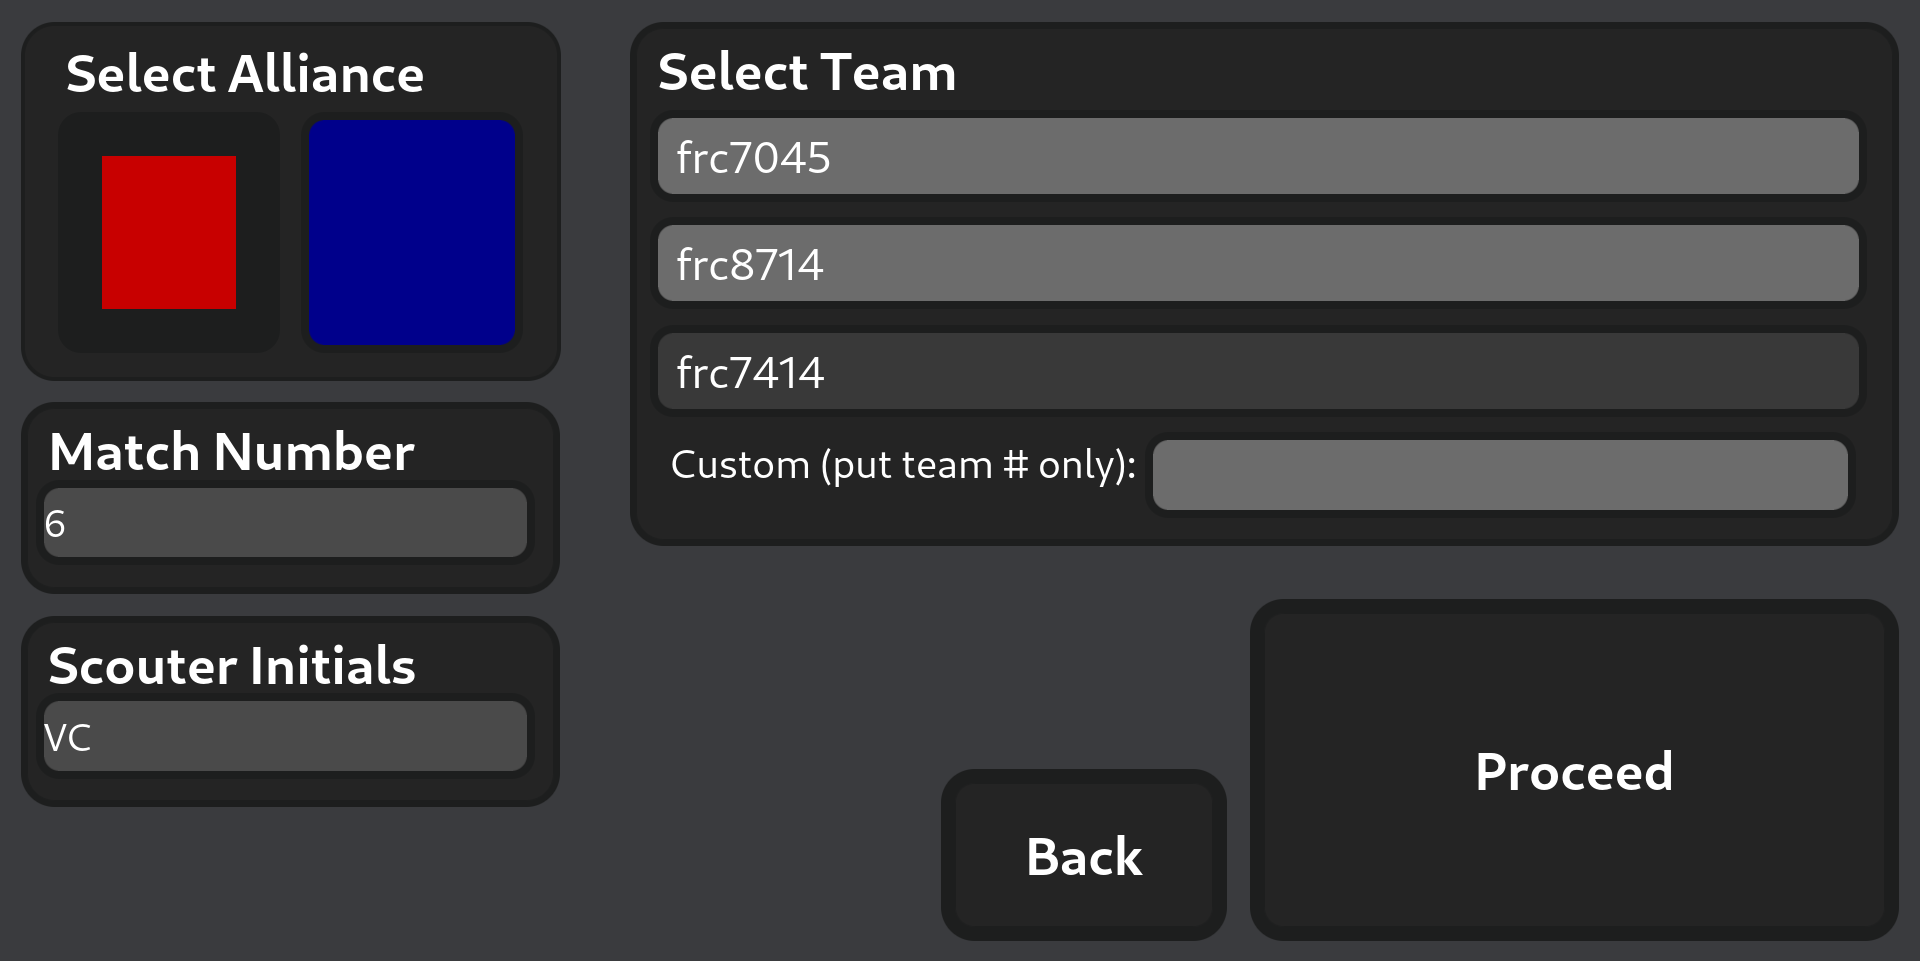
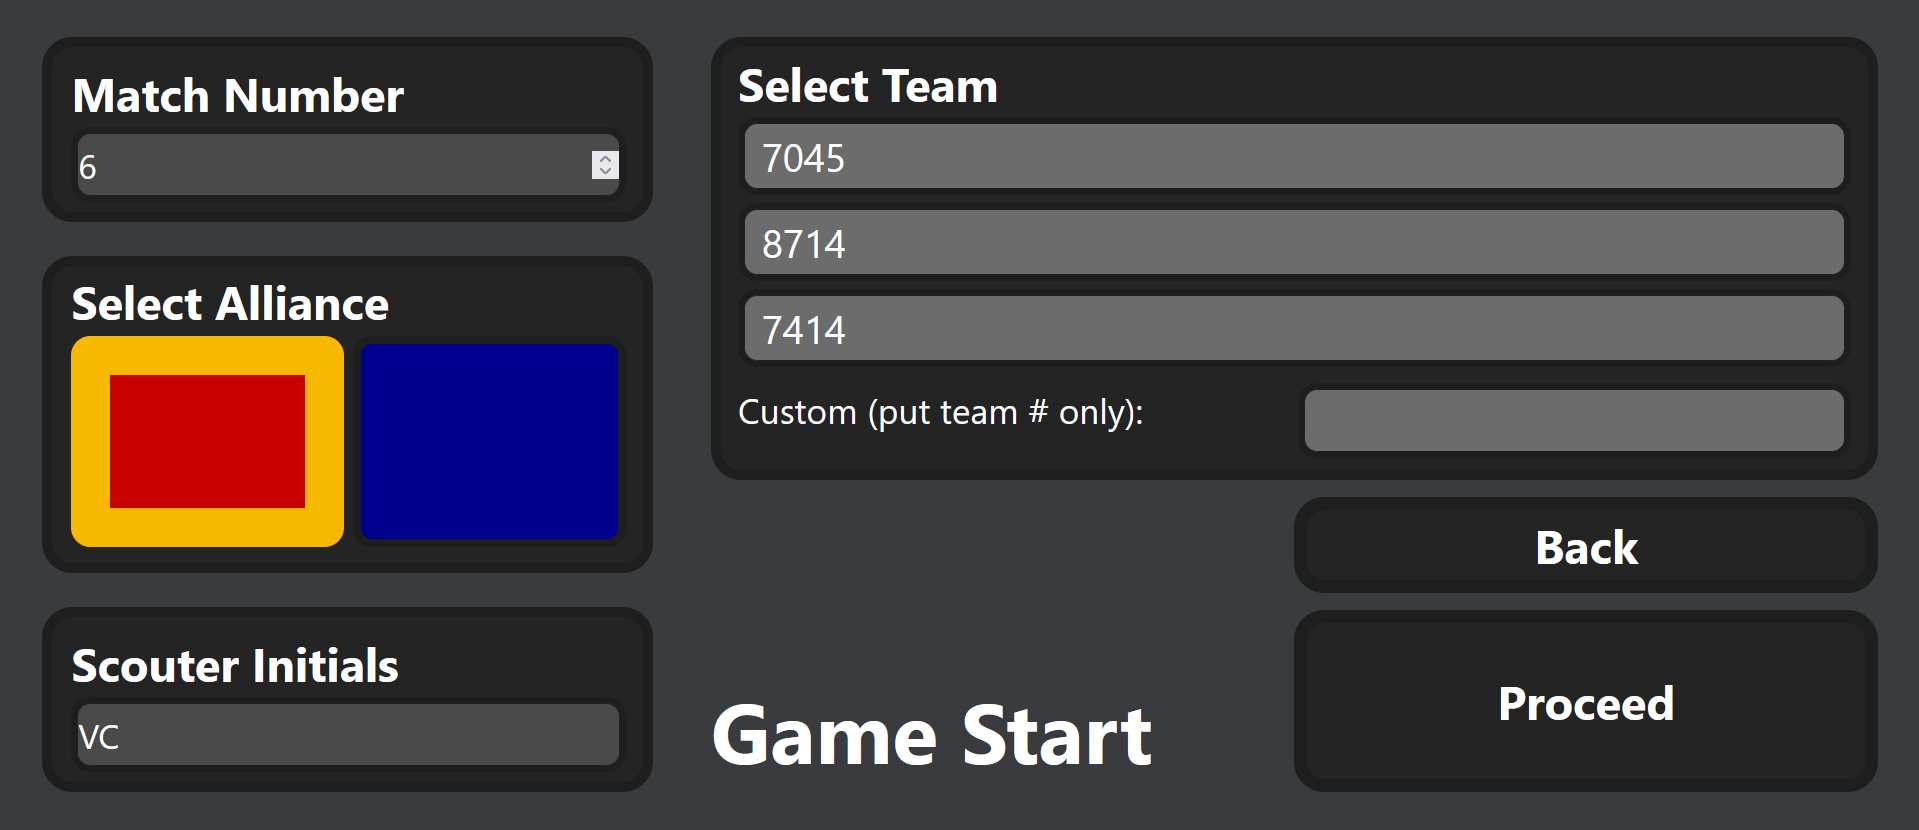
finished all the website pages docs

diff --git a/README.md b/README.md
@@ -1,5 +1,7 @@
 # VScouter: FRC Scouting Revolutionized
 
+![Logo](website/public/VScouterLogo.png)
+
 ## Introduction
 
 VScouter is a versatile scouting application designed for FRC (FIRST Robotics Competition) teams. It simplifies the data collection process for scouting teams during competitions, providing a robust and efficient platform to gather, analyze, and store performance metrics of competing robots.
@@ -12,17 +14,59 @@ VScouter is a versatile scouting application designed for FRC (FIRST Robotics Co
 - Visual and intuitive buttons and pictures to help scout real-time
 - USB flash drive data collection process
 
-## Prerequisites
-
-- [Python 3](https://www.python.org/downloads/)
-
-## Installation
-
-To install VScouter, follow these steps:
-
-1. Clone the repository: `git clone https://github.com/VihaanChhabria/VScouter.git`
-
 ## Usage
+
+### Using The Website
+
+1. Visit [https://vscouter.netlify.app/](https://vscouter.netlify.app/)
+2. **Main Page:** When the scouter loads into the app there are 4 main buttons. The `Full Screen` button makes the website go into full screen mode. The `Dump Data` button will download a JSON file of the scouting data. See [Collecting Data](#collecting-data) for more info. The `Start Scouting` button continues to the game start scouting page.
+   ![HomeScreen](/readmeimages/HomeScreen.png)
+3. **Settings Page:** Has various buttons for debugging and for loading auto match suggestions. `Get Match Data` redirects to the page for getting the auto match suggestions. See [Auto Completion Match Data](#auto-completion-match-data) for more info. `Clear Match Data` clears the auto match suggestions. `Clear Scouting Data` clears the scouting data that is saved on the device. `View Scouting Data` opens a page where the user is able to see the JSON version of the scouting data for debugging. The `Parse Data` button brings the user to the parse data page. See [Parsing Data](#parsing-data) for more info.
+   ![SettingsPage](readmeimages/SettingsPage.png)
+4. **Match Data:** Here the scouter can scan a QR code leading to the generated match data for the auto competition. See more at [Using](#using) of [Auto Completion Match Data](#auto-completion-match-data).
+   ![MatchData](readmeimages/MatchData.png)
+5. **Game Start:** The `Select Alliance` component allows the scouter to select the alliance they are scouting. The `Match Number` component allows the scouter to enter the match they are scouting. The `Scouting Initials` component allows the scouter to enter their initials. The `Select Team` component shows auto completion buttons that are based on the alliance and match that the scouter inputted previously. Additionally, the scouter may choose to select a different team than auto suggested. The button/input that is darker than the other is what is selected. The scouter may choose to click the `Back` Button to return to the past page. To advance to the next page, the scouter can click the `Proceed` button.
+   ![GameStart](readmeimages/GameStart.png)
+6. **Auto Start:** The scouter can enter where the robot generally starts. They may do this by clicking each zone on the map. The scouter may choose to click the `Back` Button to return to the past page. To advance to the next page, the scouter can click the `Proceed` button.
+   ![AutoStart](readmeimages/AutoStart.png)
+7. **Auto Scoring:** The page is separated into two main sections: coral and algae. In the coral section there is a side view of the reef separated into the levels of it: L1, L2, L3, L4, and Drop/Missed. Then there is a set of all the places you can pick a coral up in auto: the station, mark 1, mark 2, and mark 3. The roadmap of the user's input is selected where they got a coral and then where they placed it. In the algae section, the user may select where they picked up an algae (the reef, mark 1, mark 2, and mark 3) and where they placed it (net shot, processor, and drop/miss). The `Passed Starting Line` button automatically selects if the scouter selects any other action. The `Proceed` button starts blinking after 15 seconds to remind the scouter to switch pages. 
+   | Keybind | Button                |
+   |---------|-----------------------|
+   | `       | Drop Miss Coral       |
+   | 1       | Place Coral L1        |
+   | 2       | Place Coral L2        |
+   | 3       | Place Coral L3        |
+   | 4       | Place Coral L4        |
+   | q       | Pick Coral Station    |
+   | w       | Pick Coral Mark 1     |
+   | e       | Pick Coral Mark 2     |
+   | r       | Pick Coral Mark 3     |
+   | 9       | Place Algae Net Shot  |
+   | 0       | Place Algae Processor |
+   | -       | Drop Miss Algae       |
+   | u       | Pick Algae Reef       |
+   | i       | Pick Algae Mark 1     |
+   | o       | Pick Algae Mark 2     |
+   | p       | Pick Algae Mark 3     |
+   ![AutoScoring](readmeimages/AutoScoring.png)
+8. **Teleop Scoring:** This page is similar to the auto scoring page. The page is separated into two main sections: coral and algae. In the coral section there is a side view of the reef separated into the levels of it: L1, L2, L3, L4, and Drop/Missed. Then there is a set of all the places you can pick a coral up in auto: the station and the carpet. The roadmap of the user's input is selected where they got a coral and then where they placed it. In the algae section, the user may select where they picked up an algae (the reef and carpet) and where they placed it (net shot, processor, and drop/miss).
+   | Keybind | Button                |
+   |---------|-----------------------|
+   | `       | Drop Miss Coral       |
+   | 1       | Place Coral L1        |
+   | 2       | Place Coral L2        |
+   | 3       | Place Coral L3        |
+   | 4       | Place Coral L4        |
+   | q       | Pick Coral Station    |
+   | w       | Pick Coral Carpet     |
+   | 9       | Place Algae Net Shot  |
+   | 0       | Place Algae Processor |
+   | -       | Drop Miss Algae       |
+   | u       | Pick Algae Reef       |
+   | i       | Pick Algae Carpet     |
+   ![TeleopScoring](readmeimages/TeleopScoring.png)
+9. **Endgame Scoring:** The `Shallow Climb`, `Deep Climb`, and `Park` buttons represent what the robot can do on the barge. Then there are toggles for if the robots climb failed, it played defense, and it if it broke down. The `Comments` textbox allows for the scouter to write any additional information such as if they broke down or got penalties.
+   ![EndgameScoring](readmeimages/EndgameScoring.png)
 
 ### Collecting Data
 
@@ -66,26 +110,6 @@ Analysis is done through Power BI. You can download it for free [here](https://w
 - **Scouter Match Numbers:** On this page you can see how many matches a scouter has scouted. This is shown by a graph of each scouter initial and how many matches they have scouted.
 ![PowerBIScouterMatchNumbers](/readmeimages/PowerBIScouterMatchNumbers.png)
 
-### Using The Website
-
-1. Visit [https://vscouter.netlify.app/](https://vscouter.netlify.app/)
-2. **Main Page:** When the scouter loads into the app there are 4 main buttons. The `Full Screen` button makes the website go into full screen mode. The `Dump Data` button will download a JSON file of the scouting data. See [Collecting Data](#collecting-data) for more info. The `Game Start` button continues to the game start scouting page.
-   ![HomeScreen](/readmeimages/HomeScreen.png)
-3. **Settings Page:** Has various buttons for debugging and for loading auto match suggestions. `Get Match Data` redirects to the page for getting the auto match suggestions. `Clear Match Data` clears the auto match suggestions. `Clear Scouting Data` clears the scouting data that is saved on the device. `View Scouting Data` opens a page where the scouter is able to see the JSON version of the scouting data.
-   ![SettingsPage](readmeimages/SettingsPage.png)
-4. **Match Data:** Here the scouter can scan a QR code leading to the generated match data for the auto competition. See more at [Using](#using) of [Auto Completion Match Data](#auto-completion-match-data).
-   ![MatchData](readmeimages/MatchData.png)
-5. **Game Start:** The `Select Alliance` component allows the scouter to select the alliance they are scouting. The `Match Number` component allows the scouter to enter the match they are scouting. The `Scouting Initials` component allows the scouter to enter their initials. The `Select Team` component shows auto completion buttons that are based on the alliance and match that the scouter inputted previously. Additionally, the scouter may choose to select a different team than auto suggested. The button/input that is darker than the other is what is selected. The scouter may choose to click the `Back` Button to return to the past page. To advance to the next page, the scouter can click the `Proceed` button.
-   ![GameStart](readmeimages/GameStart.png)
-6. **Auto Start:** The scouter can enter where the robot generally starts. They may do this by changing the counter's value based on the map. If the robot does not show to the match, the scouter may click the `No Show` button. If the `No Show` button is clicked, the form skips other data collection questions. The scouter may choose to click the `Back` Button to return to the past page. To advance to the next page, the scouter can click the `Proceed` button.
-   ![AutoStart](readmeimages/AutoStart.png)
-7. **Auto Scoring:** The buttons on the screen have the default value `Not Picked`. These can be cycled between `Not Picked`, `Failed Shot`, and `Picked and Shot` by clicking on them. The buttons represent the status for all of the rings in auto. The scouter may choose to click the `Back` Button to return to the past page. To advance to the next page, the scouter can click the `Proceed` button.
-   ![AutoScoring](readmeimages/AutoScoring.png)
-8. **Teleop Scoring:** The green buttons represent the ways you can score/do something in teleop. This ranges from from the amp, the speaker, and feeding. The red buttons represent the a mistake in when they tried to score. The `Remove Count` button removes a point from one of the inputs. This is done by the scouter clicking `Remove Count` and then clicking the input that they wanted to decrease. The scouter may choose to click the `Back` Button to return to the past page. To advance to the next page, the scouter can click the `Proceed` button.
-   ![TeleopScoring](readmeimages/TeleopScoring.png)
-9. **Endgame Scoring:** The `Parked`, `Park Failed`, `Climbed`, and `Climb Failed` buttons represent what the robot can do on the stage. The trap made and missed counter represents what the robot can score on the trap. The `Comments` textbox allows for the scouter to write any additional information such as if they broke down or got penalties.
-   ![EndgameScoring](readmeimages/EndgameScoring.png)
-
 ### Auto Completion Match Data
 
 #### **Generating**
@@ -110,10 +134,19 @@ To use generated match suggestions:
 
 ![ScanMatchData](/readmeimages/ScanMatchData.gif)
 
+## Running Locally
+
+To install VScouter, follow these steps:
+
+1. Clone the repository: `git clone https://github.com/VihaanChhabria/VScouter.git`
+2. Move into the website directory: `cd website`
+3. Install needed dependencies: `npm install`
+4. Run the website locally: `npm run dev`
+
 ## License
 
 [MIT](https://choosealicense.com/licenses/mit/)
 
 ## Support
 
-If you want to use this or need support, email me at `chhabria.vihaan@gmail.com`.
+If you want to use this or need support, email me at `chhabria.vihaan2@gmail.com`.
